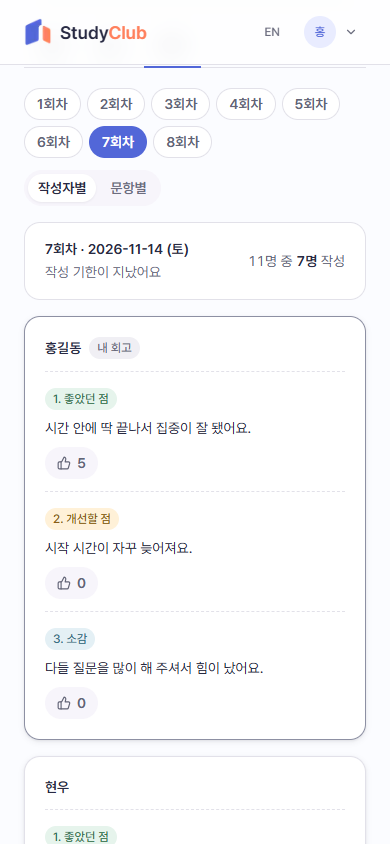
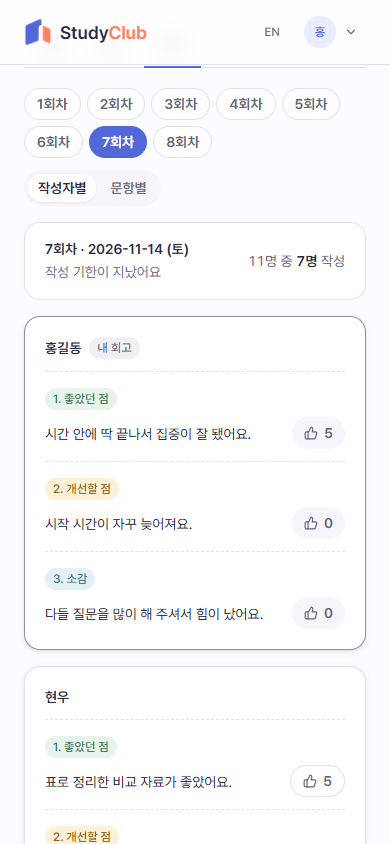
feat(playground): 회고 작성자별 카드 — 내 회고 절반 폭 · 👍 를 글 오른쪽으로

diff --git a/frontend/apps/playground/src/proto/core/components/MeetingRetro.tsx b/frontend/apps/playground/src/proto/core/components/MeetingRetro.tsx
@@ -290,7 +290,7 @@ function AuthorCard({
       data-anno={retro.me ? 'retro:3 retro:3-1' : 'retro:3'}
       className={cx(
         'rounded-card border bg-surface-raised p-5 shadow-sm',
-        retro.me ? 'border-border-strong md:col-span-2' : 'border-border',
+        retro.me ? 'border-border-strong' : 'border-border',
       )}
     >
       <header className='flex items-center gap-2'>
@@ -309,9 +309,14 @@ function AuthorCard({
         retro[s.key] ? (
           <section key={s.key} className='mt-3 border-t border-dashed border-border pt-3'>
             <SectionTag index={i + 1} section={s.key} />
-            <p className='mt-1.5 whitespace-pre-wrap break-words type-body-sm text-fg'>{retro[s.key]}</p>
-            <div className='mt-2'>
-              <LikeChip retro={retro} section={s.key} onToggle={() => onLike(s.key)} />
+            {/* 👍 는 글 오른쪽 첫 줄 높이 — 문항별 보기와 같은 자리, 문항마다 한 줄을 덜 쓴다 */}
+            <div className='mt-1.5 flex items-start gap-3'>
+              <p className='min-w-0 flex-1 whitespace-pre-wrap break-words pt-1.5 type-body-sm text-fg'>
+                {retro[s.key]}
+              </p>
+              <span className='shrink-0'>
+                <LikeChip retro={retro} section={s.key} onToggle={() => onLike(s.key)} />
+              </span>
             </div>
           </section>
         ) : (

diff --git a/frontend/apps/playground/src/app/(proto)/proto/core/[locale]/my/joined/[id]/schedule/retro/spec.ts b/frontend/apps/playground/src/app/(proto)/proto/core/[locale]/my/joined/[id]/schedule/retro/spec.ts
@@ -98,7 +98,10 @@ export const CREW_RETRO_SPEC: ScreenSpec = {
       n: '3-1',
       title: '내 회고',
       when: '내가 이 회차 회고를 썼을 때',
-      display: ['「내 회고」 표시로 다른 사람 회고와 구분'],
+      display: [
+        '「내 회고」 표시와 진한 테두리로 다른 사람 회고와 구분',
+        '다른 회고와 같은 크기 — 맨 앞이라 넓은 화면에서는 왼쪽 위에 온다',
+      ],
     },
     {
       n: '3-2',
@@ -110,7 +113,11 @@ export const CREW_RETRO_SPEC: ScreenSpec = {
     {
       n: '3-3',
       title: '👍 공감',
-      display: ['문항마다 공감 수. 0 이어도 보인다', '내가 누른 문항은 누른 상태로 구분된다'],
+      display: [
+        '문항마다 공감 수. 0 이어도 보인다',
+        '내가 누른 문항은 누른 상태로 구분된다',
+        '답 글 오른쪽, 첫 줄 높이 — 작성자별 · 문항별 보기에서 같은 자리',
+      ],
       behavior: ['누르면 +1, 다시 누르면 취소'],
       policy: [
         '한 사람이 문항마다 한 번',

diff --git a/01-planning/stories/crew-write-meeting-retro/PRD.md b/01-planning/stories/crew-write-meeting-retro/PRD.md
@@ -128,7 +128,9 @@ flowchart LR
 #### 3-1 — 내 회고
 
 - **조건**: 내가 이 회차 회고를 썼을 때
-- **내용**: 「내 회고」 표시로 다른 사람 회고와 구분
+- **내용**
+  - 「내 회고」 표시와 진한 테두리로 다른 사람 회고와 구분
+  - 다른 회고와 같은 크기 — 맨 앞이라 넓은 화면에서는 왼쪽 위에 온다
 
 #### 3-2 — 수정
 
@@ -143,6 +145,7 @@ flowchart LR
 - **내용**
   - 문항마다 공감 수. 0 이어도 보인다
   - 내가 누른 문항은 누른 상태로 구분된다
+  - 답 글 오른쪽, 첫 줄 높이 — 작성자별 · 문항별 보기에서 같은 자리
 - **동작**: 누르면 +1, 다시 누르면 취소
 - **정책**
   - 한 사람이 문항마다 한 번
